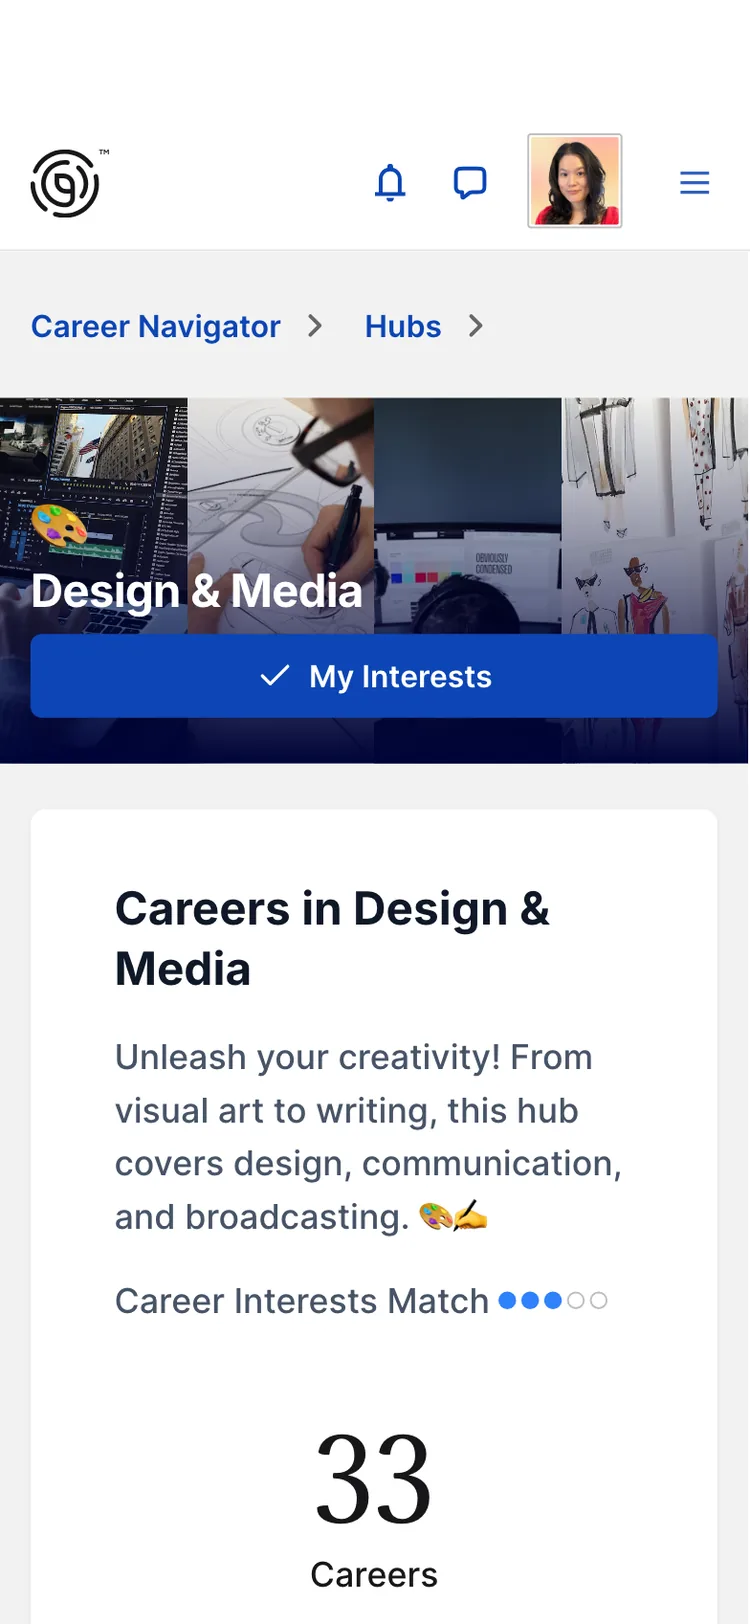
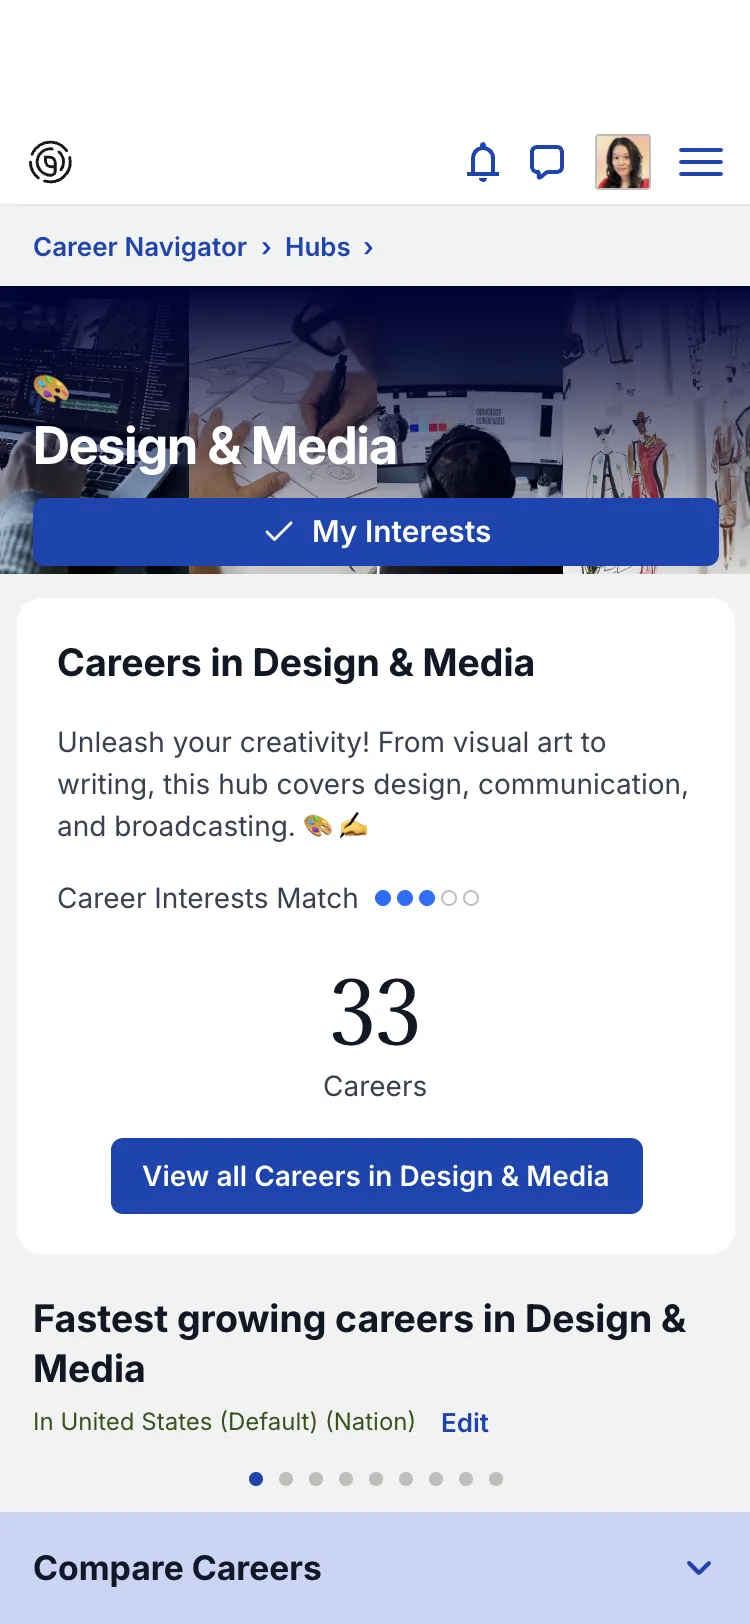
Swap in Kai's new mobile hero exports
The welcome plate is the new bg plus the composite's clouds under the
existing Cal float. The hub keeps the white 59pt status bar so the logo
clears the phone corner, with Compare Careers pinned at the bottom.

diff --git a/src/content/case-studies/cal.ts b/src/content/case-studies/cal.ts
@@ -15,9 +15,12 @@ const TALLO_QUIZ_URL = 'https://tallo.com/talent/career/career-quiz'
 // floats on top at 1485,639 (Cal sits over both clouds in the composite). Every button spans x 586.5
 // to 1117 of 1703, found by scanning the exports for the lime; option rows are the old crop's rows
 // moved back into artboard space.
-// The hub on a phone is Kai's capture (Cal-Visuals/05-quiz, "DesignMedia-Results-Mobile.png", 393pt
-// at 2x) under a white 59pt status bar, like an iPhone's, so the logo clears the phone's rounded
-// corner, ending under "33 Careers". Phone boxes are % of each screen, from
+// Phone screens are Kai's 2x exports in Cal-Visuals/00-hero/Mobile-Desktop2x (2026-10-24). The
+// welcome plate is "bgonly" plus the composite's clouds, with the old plate under Cal's silhouette
+// (Cal sits over the clouds; no mobile cloud layers), and the old Cal float, which lands exactly on
+// the composite's Cal. The hub ("hub-live") sits under a white 59pt status bar, like an iPhone's, so
+// the logo clears the phone's rounded corner; its bottom is cut and the "Compare Careers" bar pinned
+// back on, as it sits on a phone. Phone boxes are % of each screen, from
 // hero-build/HERO-MEASUREMENTS.md.
 const H = '/works/cal/hero'
 const alt = {
